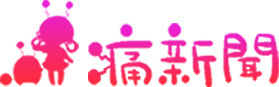
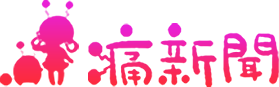
Major Update
Remove 2dcode
Remove uncomplete responsive design
Add 2dcode weibo baidutie in about
Logo to be more clear
Regiser info fix one bug

diff --git a/about.html b/about.html
@@ -146,6 +146,7 @@
     <div class="news_body_container container">
         <div class="intro">
             <div class="tongnewsintro">
+                <img id="img2dcode2" src="images/2dcode_1.png">
                 <h3>痛新闻</h3>
                 <name>介绍日本有趣好玩的动漫活动的综艺节目X喜爱动漫的在日中国留学生同好会</name>
                 <br>
@@ -155,6 +156,9 @@
                 <br>
                 <h1>节目宗旨：</h1> 以5~20分钟的网络视频的形式，每天对日本各地举办的最受关注的动漫、游戏活动进行现场报道。
                 <br> 同时不定期制作 《圣地巡礼》 系列专题，动漫业内名人访谈等，致力于打造面向中国动漫爱好者的内容最丰富最有趣的综艺节目。
+                <h1>组织推广：</h1> 
+                <a href=""><img id="weibologo" src="images/weibologo.jpg" width="40px"></a> 痛新闻官网微博；
+                <a href=""><img id="tiebalogo" src="images/baidutielogo.png" width="40px"></a> 痛新闻吧； 痛新闻公共微信平台参见右上角二维码；
                 <br>
                 <br>
                 <h3>成员介绍</h3> <div class="corem catm" con="core" style="color: white; background-color: rgb(193, 94, 255);">主要成员</div>
@@ -483,7 +487,6 @@ LL大法好！小鸟都是我的！miku赛高！48G。<br>
 
     <!--RRR footer    -->
     <div class="footer-bottom">
-        <img id="img2dcode" src="images/2dcode.jpg">
         <div class="inner-footer">
             <div id="footer-left">
                 <div class="left">

diff --git a/js/json/unitool.js b/js/json/unitool.js
@@ -717,7 +717,15 @@ function baseJSload(){
                                     }
                                 });
                             } else {
-                                alert("用户名或密码错误/无效OwO");
+                                console.log(response.error);
+                                switch(response.error){
+                                    case "E-mail address is already in use.": 
+                                        alert("邮箱曾被注册过,快来登录吧"); 
+                                        break;
+                                    default: 
+                                        alert("用户名或密码错误/无效OwO"); 
+                                        break;
+                                }
                                 $('.user_signin_submit').css('background', '#FB708E');
                             }
                         }

diff --git a/index.html b/index.html
@@ -92,7 +92,7 @@
 
 
             </div>
-
+            <img id="img2dcode" src="images/2dcode_1.png">
         </div>
     </div>
     <!--  RRR Navigation bar  -->
@@ -478,7 +478,6 @@
 
     <!--    RRR footer    -->
     <div class="footer-bottom">
-        <img id="img2dcode" src="images/2dcode.jpg">
         <div class="inner-footer">
             <div id="footer-left">
                 <div class="left">

diff --git a/css/pc_nav.css b/css/pc_nav.css
@@ -365,7 +365,8 @@ div{
 .nav {
     width: 1120px;
     position: relative;
-    margin: auto;
+    margin-left: auto;
+    margin-right: auto;
 }
 
 .nav_content{
@@ -551,7 +552,14 @@ div{
 
 #img2dcode{
     position: absolute;
-    bottom:70px;
+    top:30px;
+    right: 212px;
+    height: 150px;
+}
+
+#img2dcode2{
+    position: absolute;
+    top:30px;
     right: 10px;
     height: 150px;
 }

diff --git a/css/newsflow.css b/css/newsflow.css
@@ -719,7 +719,9 @@ div#whatsnew_parent li span.date {
     height: 0;
     z-index: 0;
 }
-/*   responsive design    */
+
+/*
+   responsive design    
 @media only screen and (max-width: 1223px){
     .news_body{
         width: 85%;
@@ -798,4 +800,4 @@ div#whatsnew_parent li span.date {
     #first{
         margin-top: 20px;
     }
-}
+}*/

diff --git a/css/slider_custom.css b/css/slider_custom.css
@@ -588,7 +588,8 @@
     height: 460px;
 }
 
-/* responsive media */
+/*
+ responsive media 
 @media only screen and (max-width: 1224px){
     .demo-2{
         width: 85%;
@@ -612,4 +613,4 @@
 
 @media only screen and (max-width: 479px){
     
-}
+}*/

diff --git a/pwreset.html b/pwreset.html
@@ -114,7 +114,6 @@
     
     <!--    RRR footer    -->
     <div class="footer-bottom">
-        <img id="img2dcode" src="images/2dcode.jpg">
         <div class="inner-footer">
             <div id="footer-left">
                 <div class="left">

diff --git a/xunli.html b/xunli.html
@@ -173,7 +173,6 @@
 
     <!--    RRR footer    -->
     <div class="footer-bottom">
-        <img id="img2dcode" src="images/2dcode.jpg">
         <div class="inner-footer">
             <div id="footer-left">
                 <div class="left">

diff --git a/reading.html b/reading.html
@@ -193,7 +193,6 @@
 
     <!--RRR footer    -->
     <div class="footer-bottom">
-        <img id="img2dcode" src="images/2dcode.jpg">
         <div class="inner-footer">
             <div id="footer-left">
                 <div class="left">

diff --git a/tongpost.html b/tongpost.html
@@ -194,7 +194,6 @@
 
     <!--RRR footer    -->
     <div class="footer-bottom">
-        <img id="img2dcode" src="images/2dcode.jpg">
         <div class="inner-footer">
             <div id="footer-left">
                 <div class="left">
